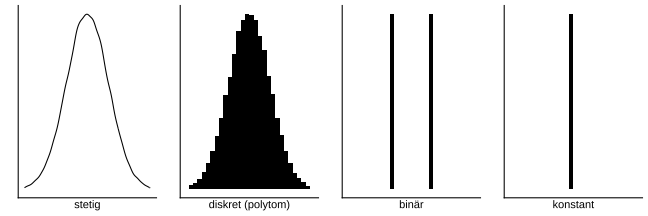
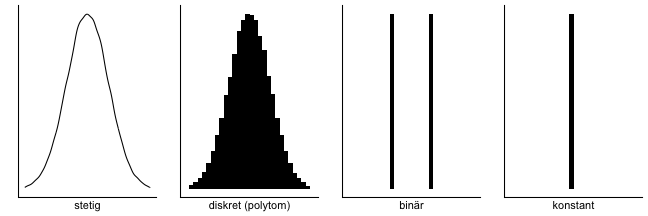
“update”

diff --git a/Statistik_I_01.html b/Statistik_I_01.html
@@ -4,7 +4,7 @@
     <title>Einheit 1</title>
     <meta charset="utf-8" />
     <meta name="author" content="Prof. Dr. Stephan Goerigk" />
-    <meta name="date" content="2026-04-15" />
+    <meta name="date" content="2026-10-14" />
     <script src="libs/header-attrs/header-attrs.js"></script>
     <link href="libs/remark-css/hygge.css" rel="stylesheet" />
     <script src="libs/jquery/jquery-3.6.0.min.js"></script>
@@ -31,7 +31,7 @@ class: middle, left
 # Statistik I
 ***
 ### Einheit 1: Grundlagen der Datenanalyse
-##### Sommersemester 2026 | Prof. Dr. Stephan Goerigk
+##### Wintersemester 2026 | Prof. Dr. Stephan Goerigk
 
 ---
 class: top, left
